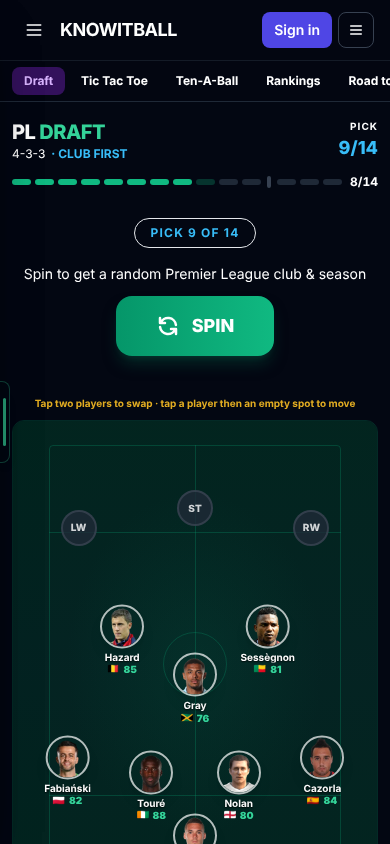
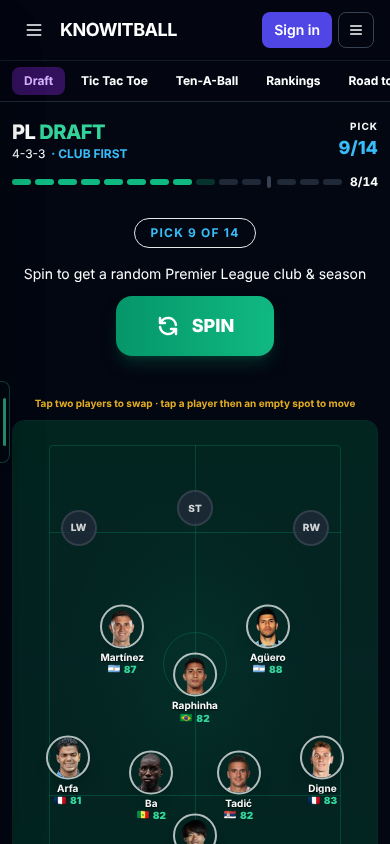
UI lookover, PL Draft: season-end table drops the played column on phones so club names fit; draft lookover stills and findings
Claude-Session: https://claude.ai/code/session_016A37hskL16Hka4FUQjF4xC

diff --git a/components/draft/DraftResult.tsx b/components/draft/DraftResult.tsx
@@ -1885,7 +1885,8 @@ export default function DraftResult({ players, onNewRun, onPlayNextSeason, seaso
                     <span className="w-6 text-center shrink-0">#</span>
                     <span className="flex-1 min-w-0">Club</span>
                     <span className="flex items-center gap-1 tabular-nums shrink-0">
-                      <span className="w-5 text-center">MP</span>
+                      {/* Played is the same for everyone at full time; on a phone its room goes to club names. */}
+                      <span className="hidden w-5 text-center sm:inline-block">MP</span>
                       <span className="w-5 text-center">W</span>
                       <span className="w-5 text-center">D</span>
                       <span className="w-5 text-center">L</span>
@@ -1925,7 +1926,7 @@ export default function DraftResult({ players, onNewRun, onPlayNextSeason, seaso
                                   {pos === 1 && <span className="text-xs shrink-0">🏆</span>}
                                 </span>
                                 <span className="flex items-center gap-1 tabular-nums shrink-0">
-                                  <span className="w-5 text-center text-xs font-semibold text-white/55">{team.played}</span>
+                                  <span className="hidden w-5 text-center text-xs font-semibold text-white/55 sm:inline-block">{team.played}</span>
                                   <span className="w-5 text-center text-xs font-semibold text-white/80">{team.won}</span>
                                   <span className="w-5 text-center text-xs font-semibold text-white/80">{team.drawn}</span>
                                   <span className="w-5 text-center text-xs font-semibold text-white/80">{team.lost}</span>

diff --git a/docs/handoffs/2026-10-19-ui-lookover/draft/findings.md b/docs/handoffs/2026-10-19-ui-lookover/draft/findings.md
@@ -1,0 +1,108 @@
+# PL Draft UI lookover (19 Oct 2026, 390x844, signed out)
+
+Stills are in this folder. Review only, no code changed.
+Console errors seen: a 404 on every page (one missing file, not named) and a 500 from /api/objectives on the draft (needs the service key; likely local only).
+
+Bar: the Play Area. The draft setup and pre-season screens are close to it. The season sim, the squad and the side screens are not.
+
+Not reached (said plainly):
+- Multiplayer lobby: Create Room and Join are locked behind sign-in (01-draft-start-full.png).
+- History and Hall of Fame: only the sign-in wall shows (20, 21).
+- Season 2, sell and signing screens, cup finals, the American draft: both of my full runs ended relegated, which ends the game ("Sacked"). Cup rounds only show as a summary after the season.
+- A real match is never shown live. The sim is a list of results.
+
+## /draft start (01-draft-start.png, 01-draft-start-full.png, page height 1725)
+Verdict: good.
+- Hero, era range, mode toggles and Start Draft button are tidy, with big tap targets (52-56px). Matches the Play Area bar.
+- The orange "Objectives NEW" pop-up sits on top of the Sign in button and the menu button in the header. QUICK. (01-draft-start.png)
+- "History & Achievements" and "Hall of Fame" are greyed with a lock and unreadable text. Looks broken, not locked. QUICK.
+- The "How to Play" pill is only 30px tall. QUICK.
+- Four settings blocks (era, mode, order, visibility, re-spins) make the page 2 screens long. Fine, but the Start Draft button is below the first screen. DESIGN (optional).
+- Site header + tab strip takes 100px above the game on every draft screen. The "Road to Ballon d'Or" tab is cut off at the right edge. QUICK.
+
+## Formation pick (02-after-start.png, 02-after-start-full.png, height 1405)
+Verdict: good.
+- Mini pitches with coloured dots are clear. 4-3-3 is highlighted with a star.
+- 5-3-2 sits alone in the last row, leaving an empty half row. QUICK.
+- Start Draft button is below the fold; you scroll past all seven formations. QUICK (sticky button).
+
+## Draft: spin screen (03-draft-first.png, 04-spinning.png, height 1137)
+Verdict: tidy-up.
+- Big green Spin button is good. Pick progress bar is nice.
+- Empty pitch with grey slot circles looks flat and dull next to the Play Area. DESIGN.
+- The header (back arrow, PL DRAFT, PICK 1/14) is fine but "0/14" and "1/14" show two counters that say nearly the same thing. QUICK.
+- A small edge tab sits on the left at the pitch level on every screen. QUICK to check whether it is meant to be there.
+
+## Draft: club roster list (05-spin-result-full.png, 07-roster-mid-draft-full.png, height 1155-1754)
+Verdict: tidy-up.
+- The player list is a small box that scrolls inside the page, cut off mid-row (the 7th row is sliced). Two scroll areas in one page is awkward on a phone. DESIGN.
+- Older seasons (Stoke 2010/11) show empty grey circles instead of faces. Newer seasons (Wolves 2024/25) show faces. Looks broken in the old ones. DESIGN (silhouette or fake face, as the career game does).
+- Rows are 72px, readable. Position tags are small and tightly packed (4 on one row, e.g. Matheus Cunha). QUICK.
+- Brief "Loading roster..." spinner leaves a big empty gap and moves the pitch down. QUICK.
+
+## Draft: choose a slot (06-player-picked.png, 08-assign-slot-mid.png)
+Verdict: good.
+- Natural-fit slots are green and clear. Big targets (54-73px). Bench option is clear.
+- The pitch is below the fold on this screen, so you cannot see where the slot sits while choosing. QUICK/DESIGN.
+- "Back to roster" is a small centred button and looks different from the other buttons. QUICK.
+
+## Draft: pitch mid-draft (09-draft-pick8.png)
+Verdict: tidy-up.
+- Real faces and ratings on the pitch look good.
+- The pitch is cut by the fold; the GK and bench are off screen. QUICK.
+- The tiny yellow tip line above the pitch ("Tap two players to swap...") is hard to read. QUICK.
+- Empty slots (LW, RW, ST) are plain grey circles. DESIGN.
+
+## Arrange your squad / pre-season (10-after-draft-full.png, 301/401-season-step0, height 1787)
+Verdict: good.
+- Closest to the Play Area bar: clear pitch with faces, orange dots on players, bench cards, a "1000 reporters predicted" card with big numbers.
+- Orange dots on players have no explanation. QUICK (hover/legend).
+- "0.5x / 1x / 1.5x" sim speed buttons are only 24px tall. QUICK.
+- Pitch card, bench and prediction card are three separate boxes with different edge glows. QUICK.
+- Prediction card is a wall of numbers (4 big tiles + 6 rows + 3 bars). DESIGN (hide most behind a toggle, per the house style).
+
+## Season sim: matchweek (402-season-step1.png and -full, height 2137)
+Verdict: needs redesign.
+- It is a plain list of text results and a table. No match is shown, only scores. It feels like a spreadsheet next to the Play Area. DESIGN.
+- No club crests anywhere in the table or results. Names only. DESIGN (use the badges the career game has).
+- "Skip all →" is 32px tall and plain text, the main control on the page. QUICK.
+- The squad stats block (14 rows) sits under the table and makes the page 2.5 screens long. QUICK/DESIGN.
+- Cup ties show inside the results list with no heading, so FA Cup and League Cup rounds are easy to miss. DESIGN.
+
+## Season end: final table and results (303-season-step2-full.png, 422-season-step21-full.png, height 3771)
+Verdict: tidy-up.
+- The RELEGATED banner, awards and competition winners are clear and readable. Good colour use.
+- Page is about 4.5 screens long. Table, form, cups, squad stats, awards, winners all stacked. DESIGN (tabs or steps).
+- Club names are cut off in the table: "Bournemo...", "Crystal Pal...", "KNOWITB...". QUICK.
+- "Final league table", "Match results" are collapsed bars (50px) that look like buttons but behave as folds; the arrows are tiny. QUICK.
+- Form row is rows of tiny L/W/D squares (about 14px). Hard to read. QUICK.
+- Share and New Draft buttons are at the very bottom, after all the content. QUICK (sticky bar).
+- Relegation ends the game ("Sacked") with no way to continue. Dead end after a bad draft. DESIGN (flagged for Harry; not a layout bug).
+
+## /draft/history (20-history.png, height 844)
+Verdict: tidy-up (signed out only).
+- Only a lock card with a Sign in button. Fine, but about half the screen is empty. QUICK.
+- "Back to Draft" is a 38px bordered button here, but a plain 20px link on /draft/records. Inconsistent. QUICK.
+- Could not see the real history or achievements without sign-in.
+
+## /draft/records (21-records.png, height 1137)
+Verdict: tidy-up (signed out only).
+- Same lock card. A different title style and a different back link from History. QUICK.
+- Over half the screen is empty. QUICK.
+- Could not see the Hall of Fame leaderboard.
+
+## /draft/preview (22-preview.png, 23-preview-xi.png, heights 1711 and 1275)
+Verdict: needs redesign (it is a design preview with sample data).
+- League table: club names are cut to one or two letters ("M.", "Ma...", "Liv...", "Kn..."). The columns leave no room for names. DESIGN/QUICK.
+- A floating chat bubble covers the rank-8 row, and a floating eye button covers the table edge. QUICK.
+- Starting XI: the pitch is cut off at the bottom (the GK is sliced). Player labels overlap (Gerrard over Cavalieri, Mee/Rice). QUICK.
+- Players show a letter in a circle instead of a face. DESIGN.
+- The orange "Design Preview" banner is fine. Tab buttons are 36px. QUICK.
+
+## Multiplayer lobby
+Blocked by sign-in. Only the locked "Create Room" and "Join" panel is visible (01-draft-start-full.png): the lock text is green on dark and small. QUICK.
+
+## Cross-screen
+- A floating chat button and the left edge tab appear on every page and overlap content (see /draft/preview). QUICK.
+- Fonts and colours are consistent across the draft (dark navy, green and cyan accents). Good.
+- Several bottom-of-page blocks (feedback form, footer) repeat on every screen and add 160px before the end. QUICK.
